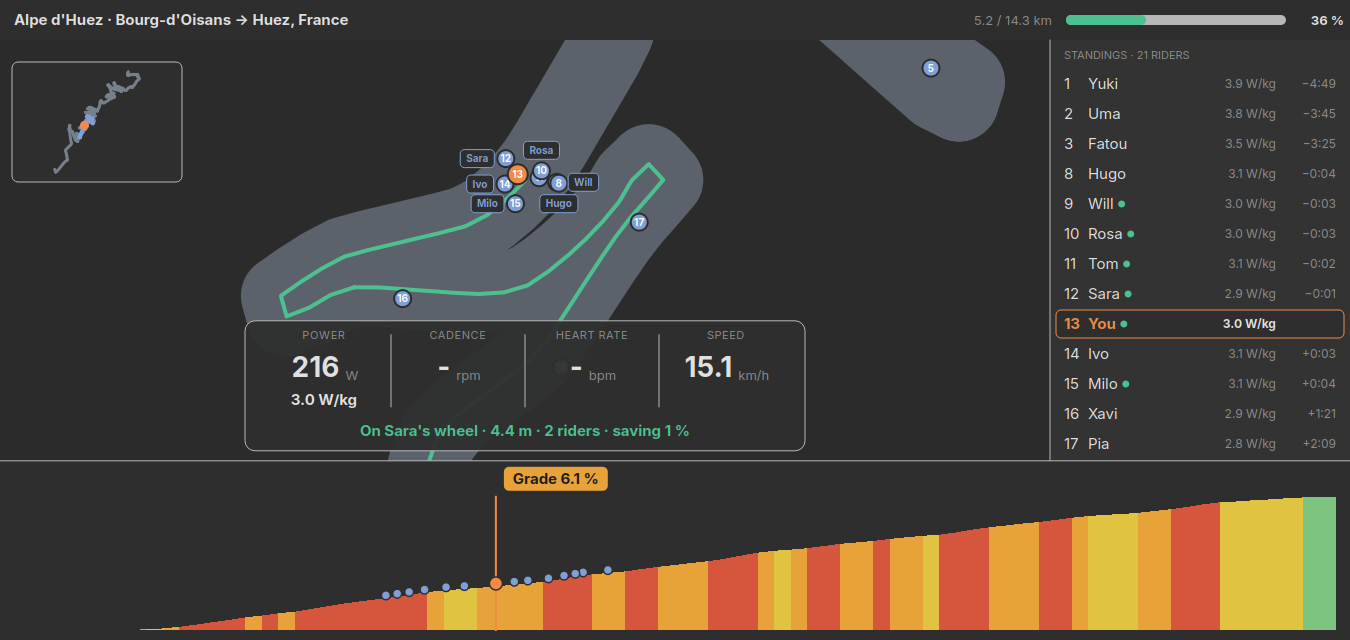
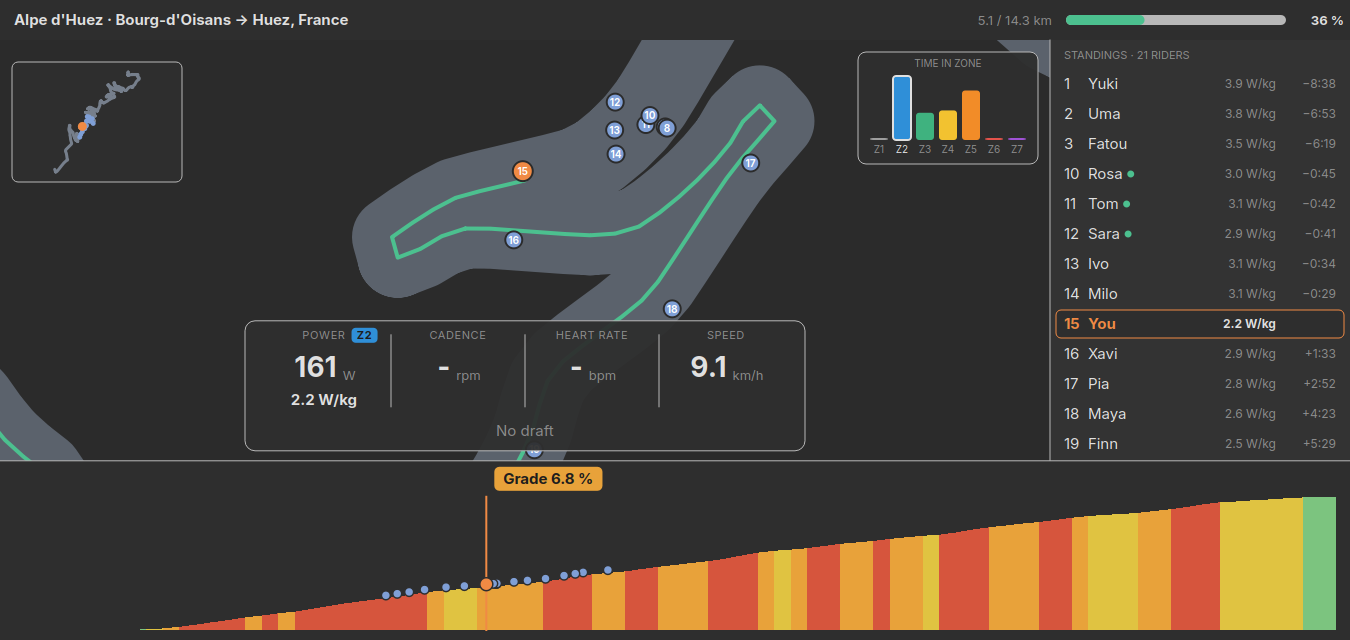
feat(courses): power zone on the race card and time in zone
The power cell shows your current zone (your Intervals.icu zones, coloured
as in the workout graphs), and a Time in zone panel on the map, top right,
shows how long you have ridden in each zone, Zwift style.

diff --git a/docs/user-guide.html b/docs/user-guide.html
@@ -1236,8 +1236,9 @@
 
         <h3>On the road</h3>
         <ul>
-          <li><strong>The card</strong> in the middle shows your power, W/kg (red above your FTP), cadence, heart rate
-              and speed, and who you are drafting.</li>
+          <li><strong>The card</strong> in the middle shows your power with its zone (Z1 to Z7) and W/kg (red above your
+              FTP), cadence, heart rate and speed, and who you are drafting. <strong>Time in zone</strong>, top right of
+              the map, shows how long you have ridden in each power zone.</li>
           <li><strong>Drafting.</strong> Ride right behind another rider to save effort: the closer, the more you save
               (most at 1 m or less, nothing beyond 10 m), and more riders in front shelter you more. It is worth a lot on
               the flat and little on a steep climb.</li>

diff --git a/src/race/raceview.cpp b/src/race/raceview.cpp
@@ -1,5 +1,6 @@
 #include "raceview.h"
 
+#include "powerzones.h"
 #include "racesimulation.h"
 
 #include <QDateTime>
@@ -158,6 +159,7 @@ void RaceView::paintEvent(QPaintEvent *)
     paintRoute(painter, map);
     paintNowPanel(painter, map);
     paintGearPanel(painter, map);
+    paintZonePanel(painter, map);
     paintStandings(painter, standings);
     paintProfile(painter, profile);
     if (m_race->youFinished())
@@ -509,6 +511,22 @@ void RaceView::paintNowPanel(QPainter &painter, const QRectF &mapArea) const
         painter.setFont(labelFont);
         painter.setPen(palette().color(QPalette::PlaceholderText));
         painter.drawText(QRectF(box.left(), box.top(), box.width(), 16), Qt::AlignHCenter | Qt::AlignTop, cell.label);
+        // Your power zone, as a coloured pill beside "POWER".
+        if (index == 0 && currentZone() >= 0) {
+            const int zone = currentZone();
+            const double labelWidth = QFontMetricsF(labelFont).horizontalAdvance(cell.label);
+            const QRectF pill(box.center().x() + labelWidth / 2 + 6, box.top() - 1, 26, 15);
+            QColor colour = PowerZones::color(zone);
+            colour.setAlpha(255);
+            painter.setPen(Qt::NoPen);
+            painter.setBrush(colour);
+            painter.drawRoundedRect(pill, 4, 4);
+            QFont pillFont = labelFont;
+            pillFont.setBold(true);
+            painter.setFont(pillFont);
+            painter.setPen(QColor(0x1d, 0x1d, 0x1d));
+            painter.drawText(pill, Qt::AlignCenter, tr("Z%1").arg(zone + 1));
+        }
         const QFontMetricsF valueMetrics(valueFont);
         const QFontMetricsF unitMetrics(unitFont);
         const double valueWidth = valueMetrics.horizontalAdvance(cell.value);
@@ -626,6 +644,66 @@ void RaceView::flashShift(int direction)
     m_shiftDirection = direction;
     m_shiftAtMs = QDateTime::currentMSecsSinceEpoch();
     update();
+}
+
+void RaceView::setZones(int ftpWatts, const QVector<int> &zoneBoundsPct)
+{
+    m_ftpWatts = ftpWatts;
+    m_zoneBoundsPct = zoneBoundsPct;
+    m_zoneSeconds = QVector<double>(zoneBoundsPct.size() + 1, 0.0);
+    update();
+}
+
+int RaceView::currentZone() const
+{
+    if (m_ftpWatts <= 0 || m_zoneSeconds.isEmpty())
+        return -1;
+    return PowerZones::zoneForPct(100.0 * m_race->you().powerW / m_ftpWatts, m_zoneBoundsPct);
+}
+
+void RaceView::addRideTime(double seconds)
+{
+    const int zone = currentZone();
+    if (zone >= 0 && zone < m_zoneSeconds.size())
+        m_zoneSeconds[zone] += seconds;
+}
+
+void RaceView::paintZonePanel(QPainter &painter, const QRectF &mapArea) const
+{
+    if (m_zoneSeconds.isEmpty())
+        return;
+    // Time in each zone so far, Zwift style: one bar per zone, tallest = most time.
+    const int zones = static_cast<int>(m_zoneSeconds.size());
+    constexpr double kBarWidth = 18.0;
+    constexpr double kGap = 5.0;
+    const double width = zones * kBarWidth + (zones - 1) * kGap + 24;
+    const QRectF panel(mapArea.right() - width - 12, mapArea.top() + 12, width, 112);
+    QColor fill = palette().color(QPalette::Base);
+    fill.setAlpha(240);
+    painter.setPen(QPen(palette().color(QPalette::Mid), 1));
+    painter.setBrush(fill);
+    painter.drawRoundedRect(panel, 8, 8);
+
+    QFont small = font();
+    small.setPointSizeF(font().pointSizeF() * 0.75);
+    painter.setFont(small);
+    painter.setPen(palette().color(QPalette::PlaceholderText));
+    painter.drawText(QRectF(panel.left(), panel.top() + 5, panel.width(), 14), Qt::AlignHCenter, tr("TIME IN ZONE"));
+
+    const double most = *std::max_element(m_zoneSeconds.cbegin(), m_zoneSeconds.cend());
+    const QRectF bars(panel.left() + 12, panel.top() + 24, panel.width() - 24, 64);
+    const int now = currentZone();
+    for (int zone = 0; zone < zones; ++zone) {
+        const double x = bars.left() + zone * (kBarWidth + kGap);
+        const double height = most > 0.0 ? std::max(2.0, bars.height() * m_zoneSeconds.at(zone) / most) : 2.0;
+        QColor colour = PowerZones::color(zone);
+        colour.setAlpha(255);
+        painter.setPen(zone == now ? QPen(palette().color(QPalette::Text), 2) : Qt::NoPen);
+        painter.setBrush(colour);
+        painter.drawRoundedRect(QRectF(x, bars.bottom() - height, kBarWidth, height), 3, 3);
+        painter.setPen(zone == now ? palette().color(QPalette::Text) : palette().color(QPalette::PlaceholderText));
+        painter.drawText(QRectF(x - 4, bars.bottom() + 3, kBarWidth + 8, 14), Qt::AlignHCenter, tr("Z%1").arg(zone + 1));
+    }
 }
 
 void RaceView::setLiveMetrics(int cadenceRpm, int heartRateBpm)

diff --git a/src/race/raceview.h b/src/race/raceview.h
@@ -30,6 +30,11 @@ public:
     void flashShift(int direction);
     /// Cadence and heart rate for the card (power comes from the race). 0 = none.
     void setLiveMetrics(int cadenceRpm, int heartRateBpm);
+    /// Your FTP and power-zone upper bounds (% of FTP, see PowerZones).
+    void setZones(int ftpWatts, const QVector<int> &zoneBoundsPct);
+    /// Count \a seconds of riding in the zone your power is in now.
+    void addRideTime(double seconds);
+    const QVector<double> &secondsInZone() const { return m_zoneSeconds; }
 
     /// The lane (0 to 3, across the road) a rider's dot is in, as last drawn.
     int laneOf(int riderIndex) const { return riderIndex < m_lanes.size() ? m_lanes.at(riderIndex) : -1; }
@@ -49,6 +54,8 @@ private:
     void paintOverview(QPainter &painter, const QRectF &mapArea) const;
     QRectF gearPanelRect(const QRectF &mapArea) const;
     void paintGearPanel(QPainter &painter, const QRectF &mapArea) const;
+    void paintZonePanel(QPainter &painter, const QRectF &mapArea) const;
+    int currentZone() const;   // -1 without an FTP
     QRectF nowCardRect(const QRectF &mapArea) const;
     void paintNowPanel(QPainter &painter, const QRectF &mapArea) const;
     void paintStandings(QPainter &painter, const QRectF &area) const;
@@ -73,6 +80,9 @@ private:
     mutable QVector<int> m_lanes;
     mutable QVector<int> m_tagSides;          // which side of its dot each name tag sits
     int m_cadenceRpm = 0;
+    int m_ftpWatts = 0;
+    QVector<int> m_zoneBoundsPct;
+    QVector<double> m_zoneSeconds;
     int m_heartRateBpm = 0;
     int m_gear = 1;
     int m_gearCount = 1;

diff --git a/src/ui/workoutdialog.cpp b/src/ui/workoutdialog.cpp
@@ -64,6 +64,7 @@
 #include "grouppanel.h"
 #include "groupridecoordinator.h"
 #include "raceview.h"
+#include "powerzones.h"
 #include "racesimulation.h"
 
 namespace {
@@ -3652,6 +3653,7 @@ void WorkoutDialog::setRace(const RaceCourse &course, const RaceBot::FieldSettin
     m_raceView = new RaceView(m_race.get(), ui->widgetVideo->parentWidget());
     if (riderKg > 0.0)
         m_raceView->setRedLineWattsPerKg(account->FTP / riderKg);   // above FTP: red
+    m_raceView->setZones(account->FTP, PowerZones::boundsPct(account->power_zones_pct));
     if (auto *videoLayout = qobject_cast<QBoxLayout*>(ui->widgetVideo->parentWidget()->layout()))
         videoLayout->insertWidget(videoLayout->indexOf(ui->widgetVideo), m_raceView, 1);
     ui->widget_workoutPlot->hide();
@@ -3687,6 +3689,7 @@ void WorkoutDialog::stepRace() {
     }
     // Cap a stalled event loop at one second so nobody teleports.
     m_race->step((std::min)(dtSec, 1.0));
+    m_raceView->addRideTime((std::min)(dtSec, 1.0));
     if (const std::optional<double> finish = m_race->you().finishTimeSec) {
         qInfo() << "Bot race finished" << m_race->yourPosition() << "of" << m_race->riders().size()
                 << "in" << *finish << "s";

diff --git a/src/app/main.cpp b/src/app/main.cpp
@@ -35,6 +35,7 @@
 #include "groupsimtest.h"
 #include "racesimulation.h"
 #include "raceview.h"
+#include "powerzones.h"
 #include "apptheme.h"
 #endif
 
@@ -320,12 +321,15 @@ int main(int argc, char *argv[]) {
         constexpr double kRiderKg = 72.0;
         RaceSimulation race(*course, QStringLiteral("You"), kRiderKg, RaceSimulation::kBotBikeMassKg, 0.30);
         for (const RaceBot &bot : RaceBot::defaultField(42)) race.addBot(bot);
+        RaceView view(&race);
+        view.setZones(250, PowerZones::boundsPct({}));
         const int ticks = static_cast<int>(seconds * 4.0);   // 0.25 s steps
         for (int tick = 0; tick < ticks && !race.youFinished(); ++tick) {
-            race.setYourPower(3.0 * kRiderKg);
+            // Around 3 W/kg, with surges and easier spells, like a real ride.
+            race.setYourPower(3.0 * kRiderKg * (1.0 + 0.35 * std::sin(tick / 40.0)));
             race.step(0.25);
+            view.addRideTime(0.25);
         }
-        RaceView view(&race);
         view.resize(1350, 640);
         return view.grab().save(outPath) ? 0 : 1;
     }
